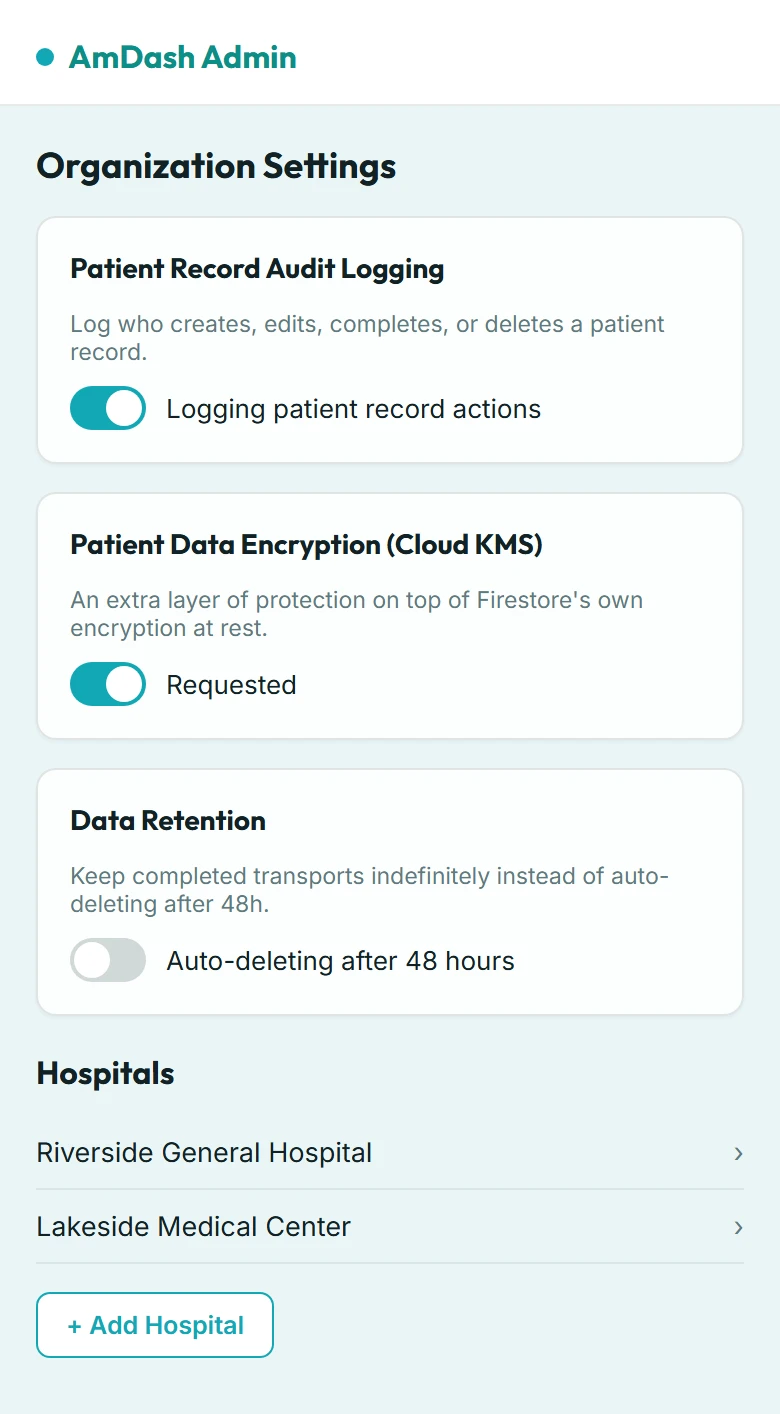
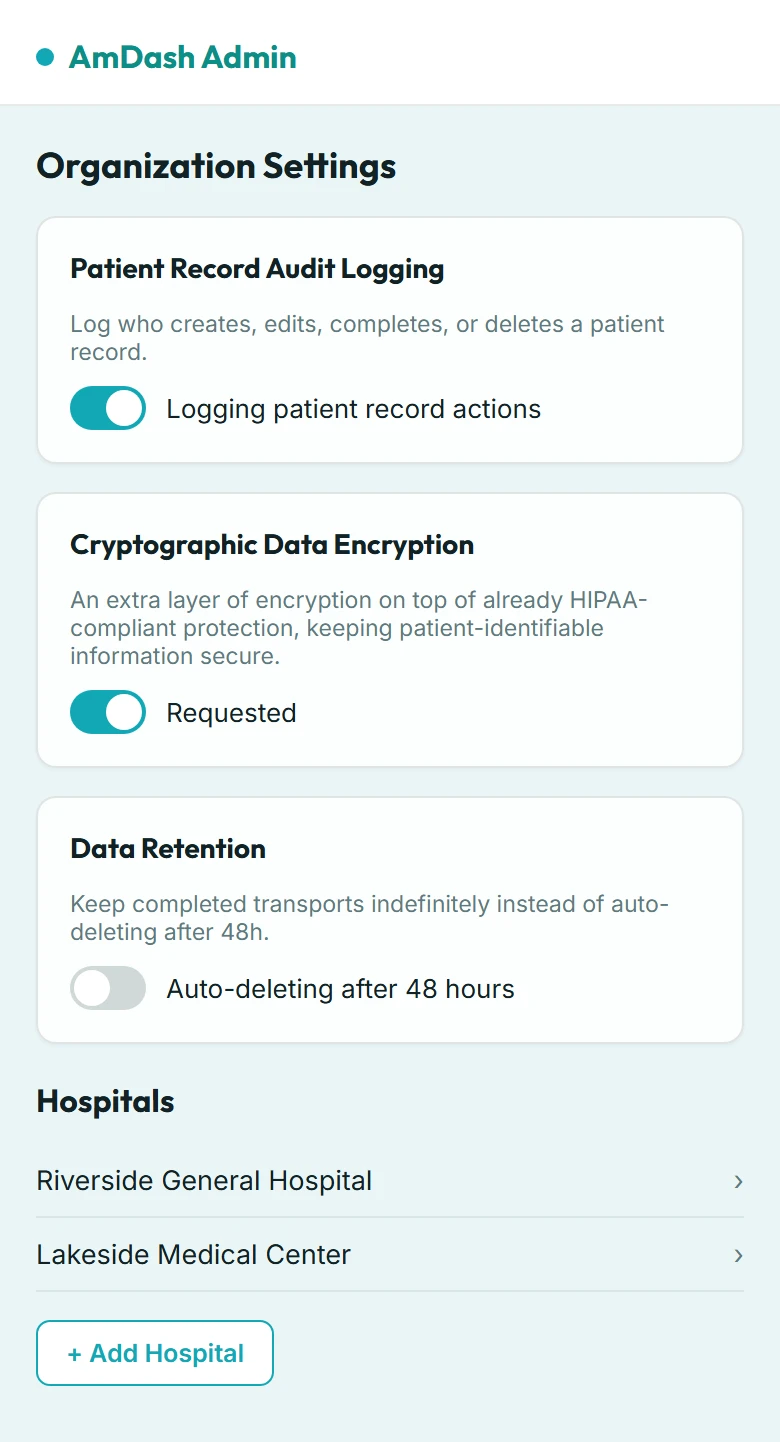
Demo showcase content fixes: drop second patient, retitle encryption
- Removed the second, greyed-out "Alex Chen" patient card from the
  EMS-tracking and physician-incoming screenshots - one clean patient
  card tells the story better than two, and the track's height auto-syncs
  to the now-shorter images automatically.
- Admin's encryption card: "Patient Data Encryption (Cloud KMS)" ->
  "Cryptographic Data Encryption", and the subtext no longer names the
  underlying Cloud KMS implementation - not something a prospective
  customer needs to know. Kept the claim it makes accurate: "will never
  get hacked" is a guarantee no security measure can honestly make, so it
  reads instead as "keeping patient-identifiable information secure",
  still conveying real protection without an absolute promise a HIPAA
  product shouldn't be making publicly.
- Re-anchored the "Opt into additional protection" callout to sit below
  card 2 instead of above it - the card's heading/subtext/toggle are
  dense enough that floating the callout above any single point inside
  it kept clipping something.

diff --git a/marketing/src/app/demo-showcase/demo-showcase.ts b/marketing/src/app/demo-showcase/demo-showcase.ts
@@ -52,7 +52,7 @@ export class DemoShowcase implements AfterViewInit {
       eyebrow: 'Always in sync',
       title: 'EMS stays in the loop too',
       caption: "The crew can see tracking status and update the patient's record right up until handoff.",
-      callouts: [{ yPercent: 37.6, label: 'Updates live, right from the field' }],
+      callouts: [{ yPercent: 49.8, label: 'Updates live, right from the field' }],
     },
     {
       src: '/demo/physician-incoming.webp',
@@ -60,7 +60,7 @@ export class DemoShowcase implements AfterViewInit {
       eyebrow: 'Instantly',
       title: "The hospital sees it the moment it's entered",
       caption: 'The receiving team sees the incoming patient in their own dashboard immediately.',
-      callouts: [{ yPercent: 24.4, label: 'Appears instantly' }],
+      callouts: [{ yPercent: 33.2, label: 'Appears instantly' }],
     },
     {
       src: '/demo/physician-live-map.webp',
@@ -88,10 +88,10 @@ export class DemoShowcase implements AfterViewInit {
       eyebrow: 'Versatile admin',
       title: 'Secure, flexible, and easy to run',
       caption:
-        'Opt into Cloud KMS encryption, audit logging, and data retention per organization — and add hospitals or invite your team in minutes.',
+        'Opt into encryption, audit logging, and data retention per organization — and add hospitals or invite your team in minutes.',
       callouts: [
-        { yPercent: 34.8, label: 'Opt into additional protection' },
-        { yPercent: 74.4, label: 'Add hospitals in minutes' },
+        { yPercent: 55.5, label: 'Opt into additional protection' },
+        { yPercent: 74.9, label: 'Add hospitals in minutes' },
       ],
     },
   ];
